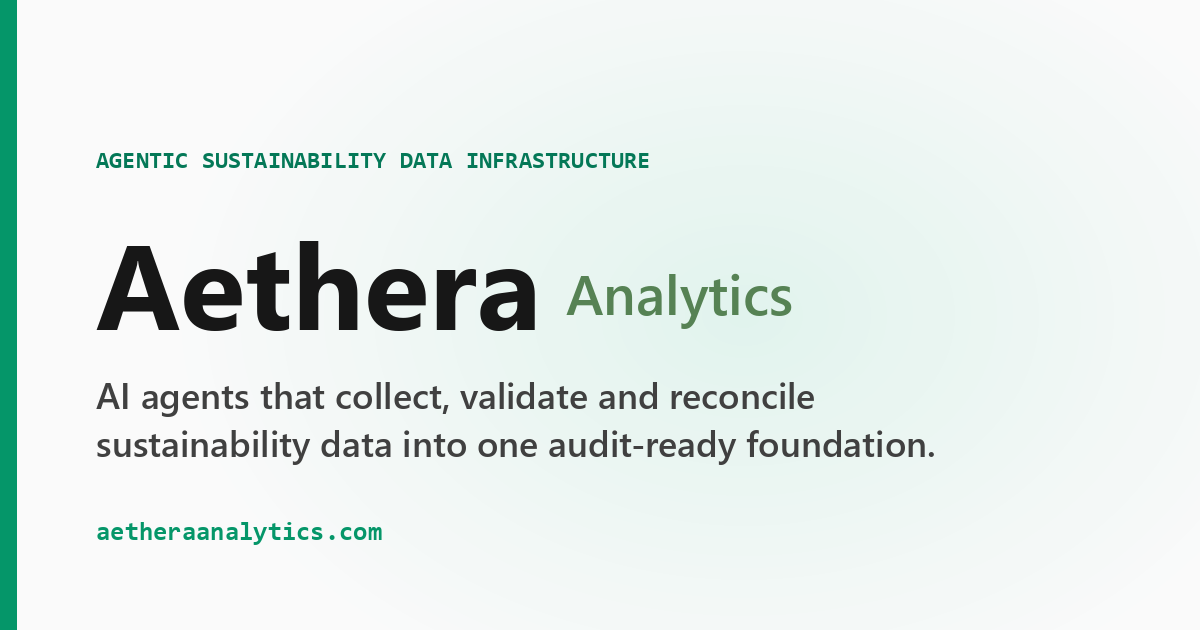
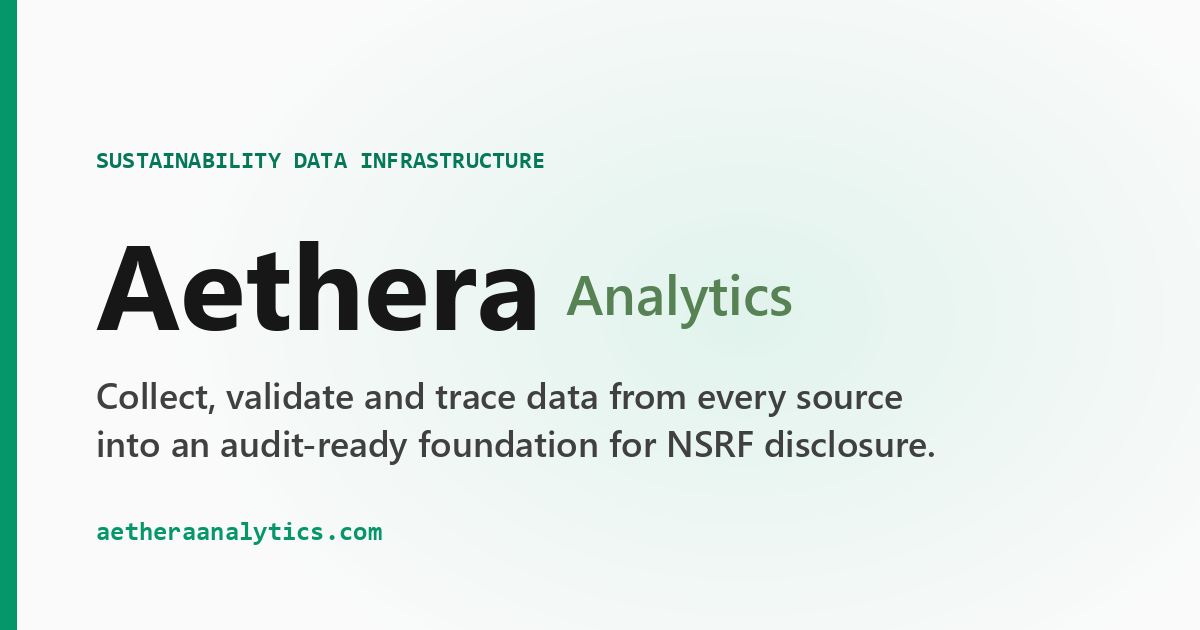
Reposition as sustainability data infrastructure
- Hero: new label, headline and subheading; agent language limited to Solution and How It Works
- How It Works: build-status badges and 'designed to' wording for anything not yet live
- Trust, About, closing and footer copy reworded around automation and the data foundation
- Footer: Agents column renamed Product; Action Agents renamed Supplier Data Collection
- Page title, search and link-preview descriptions updated; preview image regenerated

Changed region(s): [[0.0617, 0.6032, 0.7708, 0.754], [0.0617, 0.2413, 0.555, 0.2714]]

diff --git a/src/components/Home.tsx b/src/components/Home.tsx
@@ -20,34 +20,50 @@ const TEAM = [
   { name: 'Bryan Lai', initials: 'BL', role: 'Co-founder, Technical Lead (Data & AI)' },
 ];
 
-const FLOW = [
+// Build status shown on solution cards and How It Works items; update here as features ship
+const STATUS_STYLES = {
+  live: { label: 'Live in MVP', className: 'text-emerald-700 bg-emerald-50 border-emerald-200' },
+  inDevelopment: { label: 'In development', className: 'text-neutral-600 bg-neutral-100 border-neutral-200' },
+  roadmap: { label: 'Roadmap', className: 'text-neutral-600 bg-neutral-100 border-neutral-200' },
+};
+
+type Status = keyof typeof STATUS_STYLES;
+
+const FLOW: {
+  step: string;
+  title: string;
+  caption: string;
+  agents?: boolean;
+  items: { icon: typeof Bot; label: string; detail?: string; status?: Status }[];
+}[] = [
   {
     step: '01',
     title: 'Your Data Sources',
-    caption: 'Wherever your sustainability data lives today.',
+    caption: 'Designed to connect wherever your sustainability data lives today.',
     items: [
-      { icon: FileText, label: 'Utility bills & invoices' },
-      { icon: Server, label: 'ERP & finance systems' },
+      { icon: FileText, label: 'Utility bills & invoices', status: 'live' },
+      { icon: Server, label: 'ERP & finance systems', status: 'inDevelopment' },
+      // TODO(content): confirm build status for facility meters & IoT
       { icon: Gauge, label: 'Facility meters & IoT' },
-      { icon: Users, label: 'Supplier submissions' },
+      { icon: Users, label: 'Supplier submissions', status: 'live' },
     ],
   },
   {
     step: '02',
     title: 'Aethera Agents',
-    caption: 'Do the data work, continuously.',
+    caption: 'Designed to do the data work, continuously.',
     agents: true,
     items: [
-      { icon: Database, label: 'Ingestion agent', detail: 'Extracts and normalises every source' },
-      { icon: ShieldCheck, label: 'Validation agent', detail: 'Checks completeness, flags anomalies' },
-      { icon: Layers, label: 'Calculation agent', detail: 'Applies emission factors, Scope 1–3' },
-      { icon: Mail, label: 'Engagement agent', detail: 'Chases missing supplier data' },
+      { icon: Database, label: 'Ingestion agent', detail: 'Extracts and normalises bills, invoices and supplier submissions', status: 'live' },
+      { icon: ShieldCheck, label: 'Validation agent', detail: 'Checks completeness, flags anomalies', status: 'inDevelopment' },
+      { icon: Layers, label: 'Calculation agent', detail: 'Applies emission factors, Scope 1–3', status: 'inDevelopment' },
+      { icon: Mail, label: 'Engagement agent', detail: 'Chases missing supplier data', status: 'roadmap' },
     ],
   },
   {
     step: '03',
     title: 'Your Team Approves',
-    caption: 'Agents propose. People decide.',
+    caption: 'Designed so agents propose and people decide.',
     items: [
       { icon: UserCheck, label: 'Review flagged changes' },
       { icon: ClipboardCheck, label: 'Approve before reporting' },
@@ -57,24 +73,17 @@ const FLOW = [
   {
     step: '04',
     title: 'Audit-Ready Outputs',
-    caption: 'One trusted foundation to build on.',
+    caption: 'Designed to give you one trusted foundation to build on.',
     items: [
-      { icon: BookOpen, label: 'Governed emissions ledger' },
-      { icon: GitBranch, label: 'Source-to-report lineage' },
-      { icon: ScrollText, label: 'Disclosure-ready reports' },
-      { icon: Lightbulb, label: 'Reduction opportunities' },
+      { icon: BookOpen, label: 'Governed emissions ledger', status: 'inDevelopment' },
+      { icon: GitBranch, label: 'Source-to-report lineage', status: 'inDevelopment' },
+      { icon: ScrollText, label: 'Disclosure-ready reports', status: 'roadmap' },
+      { icon: Lightbulb, label: 'Reduction opportunities', status: 'roadmap' },
     ],
   },
 ];
 
-// Build status shown on each solution card; update here as features ship
-const STATUS_STYLES = {
-  live: { label: 'Live in MVP', className: 'text-emerald-700 bg-emerald-50 border-emerald-200' },
-  inDevelopment: { label: 'In development', className: 'text-neutral-600 bg-neutral-100 border-neutral-200' },
-  roadmap: { label: 'Roadmap', className: 'text-neutral-600 bg-neutral-100 border-neutral-200' },
-};
-
-const CAPABILITIES: { icon: typeof Database; title: string; status: keyof typeof STATUS_STYLES; text: string }[] = [
+const CAPABILITIES: { icon: typeof Database; title: string; status: Status; text: string }[] = [
   {
     icon: Database,
     title: 'Connect Every Data Source',
@@ -105,7 +114,7 @@ const TRUST = [
   {
     icon: UserCheck,
     title: 'Human-in-the-loop approvals',
-    text: 'No agent output reaches a report without sign-off from your team. Agents propose changes; people approve them.',
+    text: 'No automated output reaches a report without sign-off from your team. The platform proposes changes; people approve them.',
   },
   {
     icon: GitBranch,
@@ -114,8 +123,8 @@ const TRUST = [
   },
   {
     icon: History,
-    title: 'Every agent action logged',
-    text: 'Each action is recorded with what changed, when and why, giving auditors a complete trail to follow.',
+    title: 'Every change logged',
+    text: 'Each change is recorded with what changed, when and why, giving auditors a complete trail to follow.',
   },
   {
     icon: ScrollText,
@@ -137,18 +146,17 @@ export default function Home() {
           {/* Enterprise Tag */}
           <div className="mx-auto flex items-center space-x-2 text-emerald-700 font-mono text-[10px] uppercase tracking-[0.25em] bg-emerald-50 border border-emerald-200 px-3.5 py-1.5 rounded-full w-fit">
             <Sparkles className="w-3.5 h-3.5 animate-pulse text-emerald-600" />
-            <span>Agentic sustainability data infrastructure</span>
+            <span>Made for Malaysian companies</span>
           </div>
 
           <h1 className="font-display font-medium text-4xl sm:text-5xl lg:text-6xl text-neutral-900 tracking-tight leading-[1.05] max-w-2xl mx-auto">
             <span className="bg-gradient-to-r from-emerald-600 via-emerald-500 to-teal-600 bg-clip-text text-transparent font-semibold">
-              Audit-ready
-            </span> ESG data, <br />
-            without the chasing.
+              Sustainability Data Infrastructure
+            </span> for Audit&#8209;Ready Reporting.
           </h1>
 
           <p className="max-w-xl mx-auto text-neutral-600 text-sm sm:text-base font-sans font-light leading-relaxed">
-            AI agents collect, validate and trace sustainability data from every source, built for NSRF and Bursa disclosure. Your team approves every number.
+            Aethera connects every source of sustainability data, from utility bills and ERPs to suppliers, into one governed, audit-ready foundation. Less chasing for your team, and every number traceable.
           </p>
 
           <div className="flex flex-wrap items-center justify-center gap-3.5 pt-2">
@@ -190,10 +198,10 @@ export default function Home() {
             <div className="grid grid-cols-1 sm:grid-cols-12 gap-4 items-center">
               <div className="sm:col-span-7 space-y-1.5">
                 <h3 className="font-display font-semibold text-neutral-900 text-sm leading-snug">
-                  Building the agentic data layer for carbon compliance.
+                  Building the sustainability data layer for Malaysian companies.
                 </h3>
                 <p className="text-xs text-neutral-600 font-sans font-light leading-relaxed">
-                  Aethera was founded by Azhan Fikri and Bryan Lai to remove the manual data chasing behind sustainability reporting. Our agents turn fragmented data from bills, ERPs and suppliers into a trusted, traceable foundation for carbon accounting and NSRF disclosure.
+                  Aethera was founded by Azhan Fikri and Bryan Lai to remove the manual data chasing behind sustainability reporting. We turn fragmented data from bills, ERPs and suppliers into a trusted, traceable foundation for carbon accounting and NSRF disclosure.
                 </p>
               </div>
               <div className="sm:col-span-5 space-y-2">
@@ -244,7 +252,7 @@ export default function Home() {
               From Scattered Data to an Audit-Ready Foundation
             </h2>
             <p className="text-neutral-600 text-sm font-sans font-light leading-relaxed">
-              Aethera's agents sit between your data sources and your reports. They do the collection, checking, and calculation, and your team stays in control of what gets reported.
+              Aethera's agents are designed to sit between your data sources and your reports, doing the collection, checking and calculation while your team stays in control of what gets reported.
             </p>
           </div>
 
@@ -269,7 +277,7 @@ export default function Home() {
                     <p className={`text-xs font-sans font-light ${col.agents ? 'text-neutral-400' : 'text-neutral-500'}`}>{col.caption}</p>
                   </div>
                   <ul className="space-y-2">
-                    {col.items.map(({ icon: Icon, label, detail }: { icon: typeof Bot; label: string; detail?: string }) => (
+                    {col.items.map(({ icon: Icon, label, detail, status }) => (
                       <li
                         key={label}
                         className={`flex items-start gap-2.5 rounded-lg px-3 py-2.5 border ${
@@ -280,6 +288,11 @@ export default function Home() {
                         <div>
                           <span className={`block text-xs font-semibold ${col.agents ? 'text-white' : 'text-neutral-800'}`}>{label}</span>
                           {detail && <span className="block text-[11px] text-neutral-400 font-light">{detail}</span>}
+                          {status && (
+                            <span className={`inline-block mt-1.5 font-mono text-[9px] tracking-[0.2em] uppercase font-bold border px-2.5 py-1 rounded-full whitespace-nowrap ${STATUS_STYLES[status].className}`}>
+                              {STATUS_STYLES[status].label}
+                            </span>
+                          )}
                         </div>
                         {col.agents && <span className="ml-auto mt-1.5 w-1.5 h-1.5 rounded-full bg-emerald-400 animate-pulse shrink-0"></span>}
                       </li>
@@ -339,7 +352,7 @@ export default function Home() {
 
               <div className="p-4 bg-emerald-50/40 border border-emerald-300/60 rounded-xl">
                 <p className="text-xs text-emerald-950 font-sans font-medium leading-relaxed">
-                  Aethera fixes this at the infrastructure level, with AI agents doing the data work and people staying in control.
+                  Aethera fixes this at the infrastructure level: one governed data foundation, with automation doing the heavy lifting and people staying in control.
                 </p>
               </div>
             </div>
@@ -394,7 +407,7 @@ export default function Home() {
               TRUST & CONTROL
             </span>
             <h2 className="font-display font-bold text-3xl text-neutral-900 tracking-tight">
-              Agents Propose. People Approve.
+              Automation Proposes. People Approve.
             </h2>
             <p className="text-neutral-600 text-sm font-sans font-light leading-relaxed">
               Reported sustainability data has to stand up to auditors and regulators. These principles are built into Aethera's architecture from day one, so automation never comes at the cost of accountability.

diff --git a/src/components/AboutUs.tsx b/src/components/AboutUs.tsx
@@ -29,10 +29,10 @@ export default function AboutUs({ onBack }: AboutUsProps) {
           <div className="space-y-4">
             <div className="flex items-center space-x-2 text-emerald-700 font-mono text-[10px] uppercase tracking-[0.25em] bg-emerald-50 border border-emerald-200 px-3 py-1 rounded-full w-fit">
               <Sparkles className="w-3 h-3 text-emerald-600" />
-              <span>AGENTIC DATA INFRASTRUCTURE</span>
+              <span>SUSTAINABILITY DATA INFRASTRUCTURE</span>
             </div>
             <h1 className="font-display font-medium text-4xl sm:text-5xl text-neutral-900 tracking-tight leading-tight">
-              Building Agentic Infrastructure for Sustainability Data.
+              Building the Sustainability Data Layer for Malaysian Companies.
             </h1>
           </div>
 
@@ -44,7 +44,7 @@ export default function AboutUs({ onBack }: AboutUsProps) {
               Aethera was founded to solve this challenge.
             </p>
             <p className="text-black">
-              We believe sustainability teams should spend less time chasing data and more time driving meaningful action. Our mission is to build agentic data infrastructure: AI agents that continuously collect, validate, and reconcile sustainability data, giving organisations a trusted foundation to report on, make decisions with, and accelerate decarbonisation.
+              We believe sustainability teams should spend less time chasing data and more time driving meaningful action. Our mission is to build sustainability data infrastructure that continuously collects, validates and traces sustainability data, giving organisations a trusted foundation to report on, make decisions with, and accelerate decarbonisation.
             </p>
           </div>
 
@@ -56,15 +56,15 @@ export default function AboutUs({ onBack }: AboutUsProps) {
             </h3>
             <div className="grid grid-cols-1 sm:grid-cols-2 gap-6">
               <div className="p-5 bg-white border border-neutral-200 rounded-lg space-y-2">
-                <h4 className="font-display font-semibold text-neutral-800 text-sm">Agents Do the Data Work</h4>
+                <h4 className="font-display font-semibold text-neutral-800 text-sm">Automation Does the Data Work</h4>
                 <p className="text-xs text-neutral-500 leading-relaxed font-sans font-light">
-                  Collection, validation, and reconciliation run continuously, so sustainability staff can focus on executing decarbonisation initiatives.
+                  Collection, validation and reconciliation should run continuously, so sustainability staff can focus on executing decarbonisation initiatives.
                 </p>
               </div>
               <div className="p-5 bg-white border border-neutral-200 rounded-lg space-y-2">
                 <h4 className="font-display font-semibold text-neutral-800 text-sm">Infrastructure, With People in Control</h4>
                 <p className="text-xs text-neutral-500 leading-relaxed font-sans font-light">
-                  Not another dashboard: a governed, traceable data foundation. Agents propose, people approve, and every action is logged.
+                  Not another dashboard: a governed, traceable data foundation. Automation proposes, people approve, and every change is logged.
                 </p>
               </div>
             </div>
@@ -76,10 +76,10 @@ export default function AboutUs({ onBack }: AboutUsProps) {
               Closing Statement
             </h2>
             <p className="text-xl font-display font-light text-neutral-800 tracking-tight leading-relaxed">
-              &ldquo;Sustainability Data, Run by Agents.&rdquo;
+              &ldquo;Sustainability Data You Can Trust.&rdquo;
             </p>
             <p className="text-xs text-neutral-500 font-sans font-light mt-3 max-w-xl">
-              At Aethera, we believe better sustainability outcomes begin with trusted data. By pairing AI agents with governed data infrastructure, we help organisations move beyond manual reporting toward continuous, audit-ready action.
+              At Aethera, we believe better sustainability outcomes begin with trusted data. By pairing automation with governed data infrastructure, we help organisations move beyond manual reporting toward continuous, audit-ready action.
             </p>
           </div>
 
@@ -183,10 +183,10 @@ export default function AboutUs({ onBack }: AboutUsProps) {
           <div className="bg-neutral-100/80 rounded-xl p-6 border border-neutral-200 space-y-4">
             <h4 className="font-display font-semibold text-neutral-800 text-xs flex items-center space-x-1.5">
               <BookOpen className="w-3.5 h-3.5 text-emerald-600" />
-              <span>Aethera Agentic Briefing</span>
+              <span>Aethera Briefing</span>
             </h4>
             <p className="text-xs text-neutral-500 leading-relaxed font-sans font-light avatar-bio">
-              Interested in Azhan's vision for agentic sustainability data infrastructure? Schedule a direct session or contact us directly at <a href="mailto:hello@aetheraanalytics.com" className="text-emerald-700 hover:underline font-semibold font-mono">hello@aetheraanalytics.com</a>.
+              Interested in our vision for sustainability data infrastructure? Schedule a direct session or contact us directly at <a href="mailto:hello@aetheraanalytics.com" className="text-emerald-700 hover:underline font-semibold font-mono">hello@aetheraanalytics.com</a>.
             </p>
             <a
               href="https://calendar.app.google/Vce1rhzMPGhr8cHS6"
@@ -211,7 +211,7 @@ export default function AboutUs({ onBack }: AboutUsProps) {
 
         <div className="relative z-10 max-w-2xl mx-auto space-y-6">
           <h2 className="font-display font-semibold text-xl sm:text-2xl text-white tracking-tight leading-snug">
-            We're building the agentic data infrastructure for carbon compliance, starting in Malaysia.
+            We're building the sustainability data infrastructure for carbon compliance, starting in Malaysia.
           </h2>
           <p className="text-neutral-400 text-xs sm:text-sm font-sans font-light leading-relaxed">
             Work with us through pilots, partnerships or integrations to make audit-ready climate data the norm for every organisation.

diff --git a/src/components/Footer.tsx b/src/components/Footer.tsx
@@ -16,7 +16,7 @@ export default function Footer() {
             <AetheraLogo size="sm" />
 
             <p className="text-xs text-neutral-600 leading-relaxed font-sans font-light max-w-sm">
-              Aethera is agentic sustainability data infrastructure for Malaysian companies: AI agents that collect, validate and trace sustainability data into an audit-ready foundation for carbon accounting and NSRF disclosure.
+              Aethera is sustainability data infrastructure for Malaysian companies. We collect, validate and trace sustainability data into an audit-ready foundation for carbon accounting and NSRF disclosure.
             </p>
 
             <div className="pt-2 flex flex-col space-y-2">
@@ -35,13 +35,13 @@ export default function Footer() {
             {/* Platform Columns */}
             <div className="space-y-3">
               <h4 className="font-mono text-[9px] font-bold text-neutral-500 tracking-wider uppercase">
-                Agents
+                Product
               </h4>
               <ul className="space-y-2 text-xs">
                 <li><Link to="/#capabilities" className="text-neutral-600 hover:text-neutral-900 transition-colors">Data Ingestion</Link></li>
                 <li><Link to="/#capabilities" className="text-neutral-600 hover:text-neutral-900 transition-colors">Validation &amp; Reconciliation</Link></li>
                 <li><Link to="/#capabilities" className="text-neutral-600 hover:text-neutral-900 transition-colors">Emissions Calculation</Link></li>
-                <li><Link to="/#capabilities" className="text-neutral-600 hover:text-neutral-900 transition-colors">Action Agents</Link></li>
+                <li><Link to="/#capabilities" className="text-neutral-600 hover:text-neutral-900 transition-colors">Supplier Data Collection</Link></li>
                  <li><a href="https://calendar.app.google/Vce1rhzMPGhr8cHS6" target="_blank" rel="noopener noreferrer" className="text-emerald-700 hover:underline text-left cursor-pointer">Integration Enquiries</a></li>
               </ul>
             </div>
@@ -90,7 +90,7 @@ export default function Footer() {
           <div className="space-x-1 flex flex-col md:flex-row items-center gap-1 md:gap-2">
             <span>&copy; {currentYear} AETHERA ANALYTICA SOLUTION (CA0421550-V). All rights reserved.</span>
             <span className="hidden md:inline">·</span>
-            <span>AGENTIC SUSTAINABILITY DATA INFRASTRUCTURE</span>
+            <span>SUSTAINABILITY DATA INFRASTRUCTURE</span>
           </div>
         </div>
 

diff --git a/index.html b/index.html
@@ -4,13 +4,13 @@
     <meta charset="UTF-8" />
     <meta name="viewport" content="width=device-width, initial-scale=1.0" />
     <link rel="icon" type="image/svg+xml" href="/favicon.svg" />
-    <title>Aethera Analytics | Audit-ready carbon data for NSRF disclosure</title>
-    <meta name="description" content="AI agents that collect, validate and trace sustainability data for Malaysian companies. Built for NSRF and Bursa disclosure, with your team approving every number." />
+    <title>Aethera Analytics | Sustainability data infrastructure for NSRF disclosure</title>
+    <meta name="description" content="Sustainability data infrastructure for Malaysian companies. Collect, validate and trace data from every source into an audit-ready foundation." />
     <link rel="canonical" href="https://www.aetheraanalytics.com/" />
     <meta property="og:type" content="website" />
     <meta property="og:site_name" content="Aethera Analytics" />
-    <meta property="og:title" content="Aethera Analytics | Audit-ready carbon data for NSRF disclosure" />
-    <meta property="og:description" content="AI agents that collect, validate and trace sustainability data for Malaysian companies. Built for NSRF and Bursa disclosure, with your team approving every number." />
+    <meta property="og:title" content="Aethera Analytics | Sustainability data infrastructure for NSRF disclosure" />
+    <meta property="og:description" content="Sustainability data infrastructure for Malaysian companies. Collect, validate and trace data from every source into an audit-ready foundation." />
     <meta property="og:url" content="https://www.aetheraanalytics.com/" />
     <meta property="og:image" content="https://www.aetheraanalytics.com/og-image.png" />
     <meta property="og:image:width" content="1200" />

diff --git a/src/App.tsx b/src/App.tsx
@@ -8,11 +8,11 @@ import { BLOG_POSTS } from './data';
 import { PATHS, navigate, usePageMeta, useRoute } from './router';
 
 const SITE = 'Aethera Analytics';
-const DEFAULT_DESCRIPTION = 'AI agents that collect, validate and trace sustainability data for Malaysian companies. Built for NSRF and Bursa disclosure, with your team approving every number.';
+const DEFAULT_DESCRIPTION = 'Sustainability data infrastructure for Malaysian companies. Collect, validate and trace data from every source into an audit-ready foundation.';
 
 const PAGE_META = {
-  home: { title: `${SITE} | Audit-ready carbon data for NSRF disclosure`, description: DEFAULT_DESCRIPTION },
-  about: { title: `About Us | ${SITE}`, description: 'Aethera is building agentic infrastructure for sustainability data. Meet co-founders Azhan Fikri and Bryan Lai and learn about our mission.' },
+  home: { title: `${SITE} | Sustainability data infrastructure for NSRF disclosure`, description: DEFAULT_DESCRIPTION },
+  about: { title: `About Us | ${SITE}`, description: 'Aethera is building sustainability data infrastructure for Malaysian companies. Meet co-founders Azhan Fikri and Bryan Lai and learn about our mission.' },
   blog: { title: `Blog | ${SITE}`, description: 'Methodology notes, regulatory updates and practical guidance for sustainability teams.' },
   privacy: { title: `Privacy Policy | ${SITE}`, description: 'How Aethera collects, uses and protects personal data under the Malaysian PDPA.' },
   terms: { title: `Terms of Service | ${SITE}`, description: 'Terms governing use of the aetheraanalytics.com website.' },
